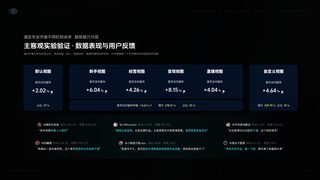
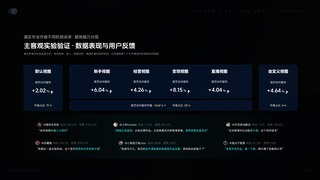
更新抖音创作服务平台第18页图库并重生成变体
- 图库 21.jpg 修正了该页实验数据：默认视图作者占比 27%→71%，自定义视图改为作者占比 6%，中间条改为首页访问留存均值 +5.62% / 作者占比 23%
- 按站内页号=图库页号-3 的规则替换 4K 母版，并重生成 960/1280/1920/2560 WebP 变体与 320×180 缩略图
- AGENTS 补充图库单页更新流程与本次更新记录；已验证 5 个视口渲染正常、回归无报错

diff --git a/AGENTS.md b/AGENTS.md
@@ -165,6 +165,7 @@
 - **占位不能平铺**：占位缩略图必须 `background-size: cover` + `background-repeat: no-repeat` + `background-position: center`；后面的 `.artwork-frame` 简写会把它们重置，需在 CSS 末尾再次声明（并在 JS 内联设置），否则硬刷新时 320×180 缩略图会平铺成“一屏很多图片”。
 - **翻页不闪屏**：翻页期间不得把当前图层压暗（旧实现加 `.is-loading` 会把图降到 15% 不透明度）；必须等实际 `<img>` 的 `decode()` 完成后再启动位移动画，且新图在动画开始前已放到画面外，慢解码时旧图保持完整可见。
 - **缓存**：变体与原图同目录、同 URL 规则；替换图片时保留同名变体或重新生成，避免旧缓存。
+- **2026 图库单页更新**：设计稿在 `2026 作品材料/作品网站图库/` 下按项目分目录维护（iCloud，16:9，5760×3240 JPEG，文件名即图库页号）。替换时取对应页 → 转 3840×2160 PNG 母版（沿用 `<原页号>.png` 命名）→ 重生成 960/1280/1920/2560 WebP q95 变体与 320×180 JPEG 缩略图；只动该页，其余页不重导。站内页号与图库页号的换算：抖音创作服务平台第 1–12 页一致，第 13 页为图库 13–16 叠加，从站内第 14 页起 = 图库页号 − 3（站内第 18 页 = 图库 `21.jpg`）。
 - **深链/硬刷新首屏**：`<html class="is-booting">` + 内联 CSS 先隐藏所有 `[data-screen]`，等 `handleRoute()` 完成后再移除；初次渲染的 inactive 屏幕立即 `hidden`，避免刷新查看器时先绘制首页卡片网格。
 
 ### 3.10 滚动叠加页（stack）
@@ -214,6 +215,7 @@
 - 「抖音其他项目」共 5 页：第 1 页为新增的「抖音其他项目」总览图（`other/00.png`），后续依次为原第 3、1、2、4 页。
 - 「抖音创作服务平台」共 32 页：原第 13–16 页合并为第 13 页的 4 层滚动叠加页，原第 17–35 页顺延为第 14–32 页。
 - 字节跳动四个项目与金山词霸使用独立封面图（`assets/thumbs/douyin-*.jpg` / `mobile.jpg`，由 `2026 作品材料/作品封面` 原图压缩到 1600×900 JPEG q90）；JD 沿用原有封面。封面与作品第 1 页可以不同，首页与项目页共用同一封面。
+- **2026-11-12**：抖音创作服务平台站内第 18 页（图库 `21.jpg`）换为修正后的数据页——默认视图作者占比 27% → 71%，自定义视图改为「作者占比 6%」，中间条改为「首页访问留存均值 +5.62% / 作者占比 23%」，母版、四档 WebP 变体与缩略图同步重生成。原因是设计稿修正了该页实验数据。
 
 ### 6.2 视觉与响应式基线
 
